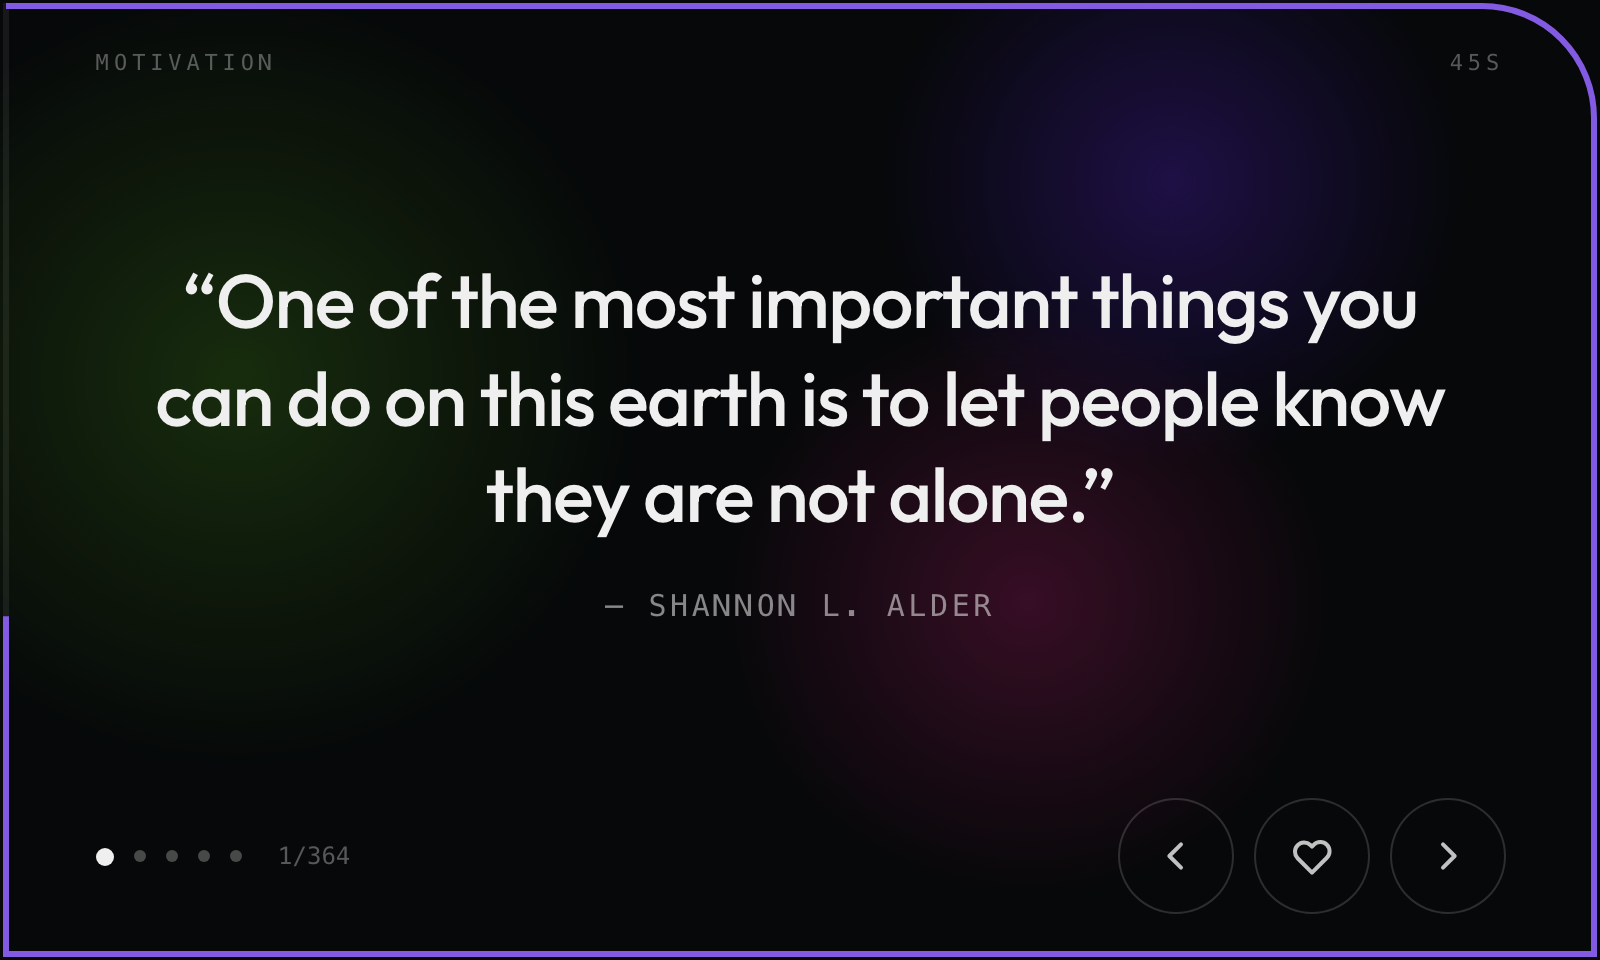
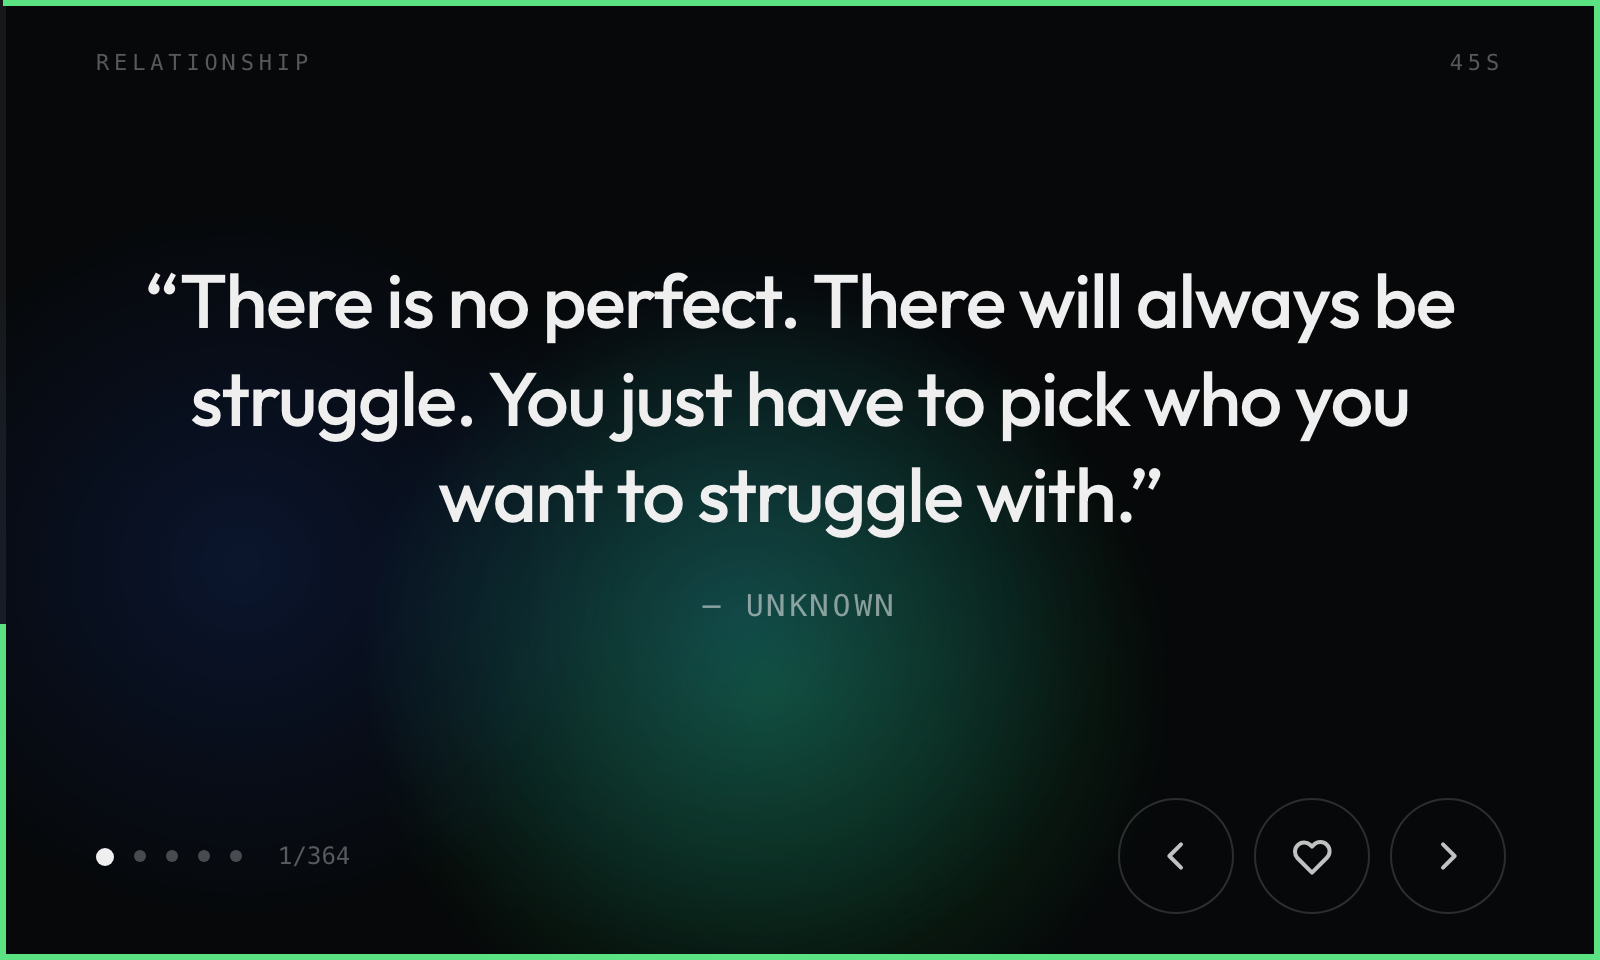
quote-flow: square border on all four corners
Back to the rect it started as. Neither the rounded version nor the one
cut for the dial was an improvement.

Claude-Session: https://claude.ai/code/session_01DCTuCWNjLE3xwYkahcyuiq

diff --git a/apps/quote-flow/src/App.tsx b/apps/quote-flow/src/App.tsx
@@ -426,22 +426,6 @@ const Wash = memo(function Wash({ quoteId }: { quoteId: string }) {
   );
 });
 
-// the dial sits over the top right of the panel, so only that corner is cut away; the rest stays square
-const WHEEL_CUT = 56;
-const EDGE = 3;
-const RIGHT = 800 - EDGE;
-const BOTTOM = 480 - EDGE;
-
-// clockwise from the top left, arcing once around the dial
-const EDGE_PATH = [
-  `M ${EDGE} ${EDGE}`,
-  `H ${RIGHT - WHEEL_CUT}`,
-  `A ${WHEEL_CUT} ${WHEEL_CUT} 0 0 1 ${RIGHT} ${EDGE + WHEEL_CUT}`,
-  `V ${BOTTOM}`,
-  `H ${EDGE}`,
-  'Z',
-].join(' ');
-
 /** a rule around all four edges that empties as the interval runs down */
 const Countdown = memo(function Countdown({
   quoteId,
@@ -456,15 +440,17 @@ const Countdown = memo(function Countdown({
 }) {
   return (
     <svg className="pointer-events-none absolute inset-0 h-full w-full" viewBox="0 0 800 480" preserveAspectRatio="none">
-      <path d={EDGE_PATH} fill="none" stroke="rgba(239,239,239,0.07)" strokeWidth="3" />
-      <path
+      <rect x="1.5" y="1.5" width="797" height="477" fill="none" stroke="rgba(239,239,239,0.07)" strokeWidth="3" />
+      <rect
         key={`${quoteId}-${seconds}`}
         className="countdown"
-        d={EDGE_PATH}
+        x="1.5"
+        y="1.5"
+        width="797"
+        height="477"
         fill="none"
         stroke={colour}
         strokeWidth="3"
-        strokeLinejoin="miter"
         pathLength={1000}
         strokeDasharray={1000}
         style={{ ['--countdown-duration' as string]: `${seconds}s`, animationPlayState: paused ? 'paused' : 'running' }}

diff --git a/apps/quote-flow/CHANGELOG.md b/apps/quote-flow/CHANGELOG.md
@@ -1,5 +1,9 @@
 # quote-flow
 
+## 0.5.3
+
+Square border on all four corners.
+
 ## 0.5.2
 
 Square border again, cut only at the top right for the dial.
